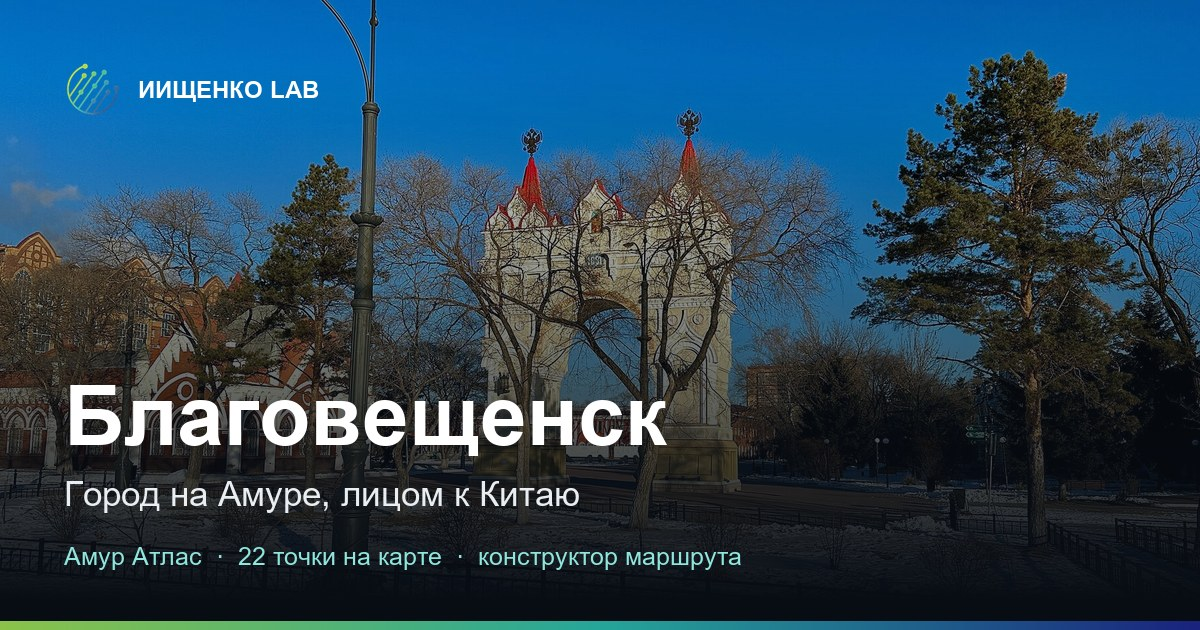
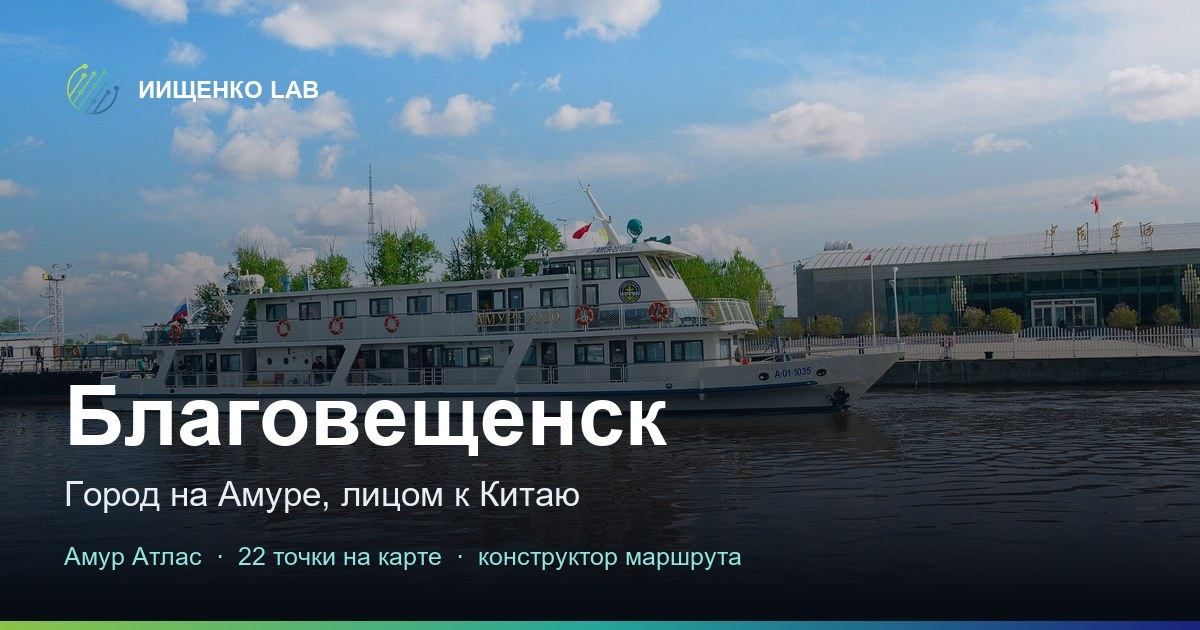
Модуль о канатной дороге, летние фото, подвал и шапка
- секция #ropeway: первая в мире трансграничная канатка, цифры,
  таймлайн стройки, честно про перенос сроков на декабрь 2026
- зимние фото заменены летними, og-превью пересобрано
- подвал: приписка о том, что сайт создан жителем города
- шапка: ссылки не переносятся; крупные фото через ?width=

diff --git a/index.html b/index.html
@@ -21,7 +21,7 @@
 <meta property="og:image" content="https://evgeniy79638134017.github.io/blagoveshchensk-atlas/assets/og-preview.jpg">
 <meta property="og:image:width" content="1200">
 <meta property="og:image:height" content="630">
-<meta property="og:image:alt" content="Триумфальная арка на набережной Амура в Благовещенске">
+<meta property="og:image:alt" content="Теплоход у набережной Амура в Благовещенске летом">
 
 <meta name="twitter:card" content="summary_large_image">
 <meta name="twitter:title" content="Благовещенск · Город на Амуре, лицом к Китаю">
@@ -88,11 +88,14 @@ img{max-width:100%;display:block}
 .logo{width:32px;height:32px;object-fit:contain;flex-shrink:0;display:block}
 .brand{transition:opacity .2s;white-space:nowrap}
 .brand:hover{opacity:.72}
-.nav-links{display:flex;align-items:center;gap:28px}
-.nav-link{font-size:14px;font-weight:500;color:var(--ink-2);transition:color .2s}
+.nav-links{display:flex;align-items:center;gap:24px}
+.nav-link{font-size:14px;font-weight:500;color:var(--ink-2);transition:color .2s;white-space:nowrap}
 .nav-link:hover{color:var(--teal)}
 .nav-cta{font-family:var(--sans);font-size:13px;font-weight:600;padding:10px 18px;border-radius:99px;background:var(--ink);color:#fff;border:none;cursor:pointer;transition:transform .2s,box-shadow .2s}
 .nav-cta:hover{transform:translateY(-1px);box-shadow:var(--sh)}
+/* когда места мало — ссылки не переносятся на вторую строку, а убираются по приоритету */
+@media(max-width:1340px){.nav-links{gap:18px}.nav-link:nth-of-type(8),.nav-link:nth-of-type(9){display:none}}
+@media(max-width:1130px){.nav-links{gap:15px}.nav-link{font-size:13px}.nav-link:nth-of-type(1),.nav-link:nth-of-type(3){display:none}}
 @media(max-width:860px){.nav-links .nav-link{display:none}}
 .prog{position:fixed;top:0;left:0;height:3px;z-index:101;background:linear-gradient(90deg,var(--teal),var(--amber));transform-origin:left;transform:scaleX(0)}
 
@@ -418,6 +421,50 @@ input[type=range]::-moz-range-thumb{width:20px;height:20px;border-radius:50%;bac
 .hh-tip p{font-size:12.5px;color:var(--ink-2);line-height:1.55}
 .hh-note{font-size:11.5px;color:var(--muted);line-height:1.6;margin-top:16px;border-top:1px solid var(--line);padding-top:14px}
 
+/* КАНАТКА */
+.cc{background:linear-gradient(165deg,#15171C 0%,#123b41 100%);color:#fff;position:relative;overflow:hidden}
+.cc::before{content:"";position:absolute;width:520px;height:520px;border-radius:50%;background:radial-gradient(circle,rgba(197,106,160,0.35),transparent 70%);top:-180px;left:-120px;filter:blur(70px);z-index:0}
+.cc .wrap{position:relative;z-index:2}
+.cc .eyebrow{color:#e79fc9}
+.cc .eyebrow::before{background:#e79fc9}
+.cc .section-h{color:#fff}
+.cc .section-h em{color:#e79fc9}
+.cc .section-lead{color:rgba(255,255,255,0.78)}
+.cc-badge{display:inline-flex;align-items:center;gap:9px;font-size:12.5px;font-weight:600;background:rgba(231,159,201,0.16);border:1px solid rgba(231,159,201,0.42);color:#f0c4dd;padding:8px 15px;border-radius:99px;margin-top:1.6rem}
+.cc-badge::before{content:"";width:8px;height:8px;border-radius:50%;background:#e79fc9;animation:pulse 1.8s infinite}
+.cc-grid{display:grid;grid-template-columns:1.25fr 1fr;gap:18px;margin-top:2.2rem;align-items:start}
+@media(max-width:900px){.cc-grid{grid-template-columns:1fr}}
+.cc-photo{position:relative;border-radius:var(--r-lg);overflow:hidden;min-height:340px;background:rgba(255,255,255,0.06);display:flex;flex-direction:column;justify-content:flex-end;padding:20px}
+.cc-photo img{position:absolute;inset:0;width:100%;height:100%;object-fit:cover;z-index:0}
+.cc-photo::after{content:"";position:absolute;inset:0;background:linear-gradient(180deg,rgba(10,16,22,0) 45%,rgba(10,16,22,0.8));z-index:1}
+.cc-photo .cap{position:relative;z-index:2}
+.cc-photo .cap b{display:block;font-family:var(--disp);font-size:15px;font-weight:600}
+.cc-photo .cap span{display:block;font-size:11.5px;color:rgba(255,255,255,0.7);margin-top:3px}
+.cc-nums{display:grid;grid-template-columns:1fr 1fr;gap:12px}
+.cc-num{background:rgba(255,255,255,0.055);border:1px solid rgba(255,255,255,0.13);border-radius:18px;padding:18px}
+.cc-num b{display:block;font-family:var(--disp);font-weight:700;font-size:27px;letter-spacing:-0.02em;line-height:1}
+.cc-num b small{font-size:14px;font-weight:600;color:#e79fc9;margin-left:3px}
+.cc-num span{display:block;font-size:11.5px;color:rgba(255,255,255,0.62);margin-top:7px;line-height:1.45}
+.cc-term{background:rgba(255,255,255,0.055);border:1px solid rgba(255,255,255,0.13);border-radius:18px;padding:20px;margin-top:12px}
+.cc-term b{display:block;font-family:var(--disp);font-size:14.5px;margin-bottom:7px}
+.cc-term p{font-size:13px;color:rgba(255,255,255,0.75);line-height:1.6}
+.cc-tl{display:grid;grid-template-columns:repeat(5,1fr);gap:0;margin-top:18px;position:relative}
+@media(max-width:820px){.cc-tl{grid-template-columns:1fr;gap:14px}}
+.cc-tl-i{position:relative;padding:26px 14px 0 0}
+.cc-tl-i::before{content:"";position:absolute;top:6px;left:0;width:13px;height:13px;border-radius:50%;background:rgba(255,255,255,0.25);border:2px solid #15171C;box-shadow:0 0 0 1px rgba(255,255,255,0.3);z-index:2}
+.cc-tl-i::after{content:"";position:absolute;top:12px;left:13px;right:0;height:1px;background:rgba(255,255,255,0.18)}
+.cc-tl-i:last-child::after{display:none}
+@media(max-width:820px){.cc-tl-i{padding:0 0 0 26px}.cc-tl-i::before{top:4px}.cc-tl-i::after{display:none}}
+.cc-tl-i.now::before{background:#e79fc9;box-shadow:0 0 0 1px #e79fc9,0 0 14px rgba(231,159,201,0.8)}
+.cc-tl-d{font-family:var(--disp);font-size:12.5px;font-weight:700;color:#e79fc9}
+.cc-tl-t{font-size:12.5px;color:rgba(255,255,255,0.75);margin-top:5px;line-height:1.5}
+.cc-foot{display:grid;grid-template-columns:1.1fr .9fr;gap:18px;margin-top:18px;align-items:start}
+@media(max-width:820px){.cc-foot{grid-template-columns:1fr}}
+.cc-render{border-radius:var(--r-lg);overflow:hidden;border:1px solid rgba(255,255,255,0.14);position:relative}
+.cc-render img{width:100%;display:block}
+.cc-render div{position:absolute;left:0;right:0;bottom:0;padding:14px 16px;background:linear-gradient(180deg,rgba(10,16,22,0),rgba(10,16,22,0.85));font-size:11.5px;color:rgba(255,255,255,0.8)}
+.cc-note{font-size:12px;color:rgba(255,255,255,0.58);line-height:1.65;border-left:2px solid rgba(231,159,201,0.5);padding-left:16px}
+
 /* LIGHTBOX */
 .gal{cursor:zoom-in}
 body.lb-open{overflow:hidden}
@@ -473,6 +520,8 @@ footer{background:var(--ink);color:#fff;padding:5rem 0 3rem;margin-top:2rem}
 .foot-bot{display:flex;justify-content:space-between;align-items:center;margin-top:4rem;padding-top:2rem;border-top:1px solid rgba(255,255,255,0.14);flex-wrap:wrap;gap:16px}
 .foot-bot .brand{color:#fff}
 .foot-meta{font-size:12px;color:rgba(255,255,255,0.5)}
+.foot-brand-box{display:flex;flex-direction:column;gap:7px}
+.foot-init{font-size:11.5px;color:rgba(255,255,255,0.45);line-height:1.5;max-width:340px}
 
 .loader{position:fixed;inset:0;background:var(--bg);z-index:9999;display:flex;align-items:center;justify-content:center;flex-direction:column;gap:14px;transition:opacity .5s,visibility .5s}
 .loader.gone{opacity:0;visibility:hidden;pointer-events:none}
@@ -494,6 +543,7 @@ footer{background:var(--ink);color:#fff;padding:5rem 0 3rem;margin-top:2rem}
     <a class="nav-link" href="#now">События</a>
     <a class="nav-link" href="#go">Как доехать</a>
     <a class="nav-link" href="#heihe">Хэйхэ</a>
+    <a class="nav-link" href="#ropeway">Канатка</a>
     <a class="nav-link" href="#planner">Маршрут</a>
     <a class="nav-link" href="#history">История</a>
     <a class="nav-link" href="#facts">Любопытное</a>
@@ -521,7 +571,7 @@ footer{background:var(--ink);color:#fff;padding:5rem 0 3rem;margin-top:2rem}
       </div>
     </div>
     <div class="hero-visual fade">
-      <img src="https://commons.wikimedia.org/wiki/Special:FilePath/Triumphal_arch_in_Blagoveshchensk_2023-11_1701250430.jpg" alt="Триумфальная арка на набережной Амура, Благовещенск" loading="eager" onerror="this.style.display='none'">
+      <img src="https://commons.wikimedia.org/wiki/Special:FilePath/The_Triumphal_Arch,_Blagoveshchensk,_Russia_(8760409508).jpg" alt="Триумфальная арка на набережной Амура, Благовещенск" loading="eager" onerror="this.style.display='none'">
       <div class="flag">RU ↔ CN<span>Амур · граница</span></div>
       <div class="badge"><span class="dot"></span>Триумфальная арка на Амуре</div>
     </div>
@@ -543,7 +593,7 @@ footer{background:var(--ink);color:#fff;padding:5rem 0 3rem;margin-top:2rem}
     <h2 class="section-h fade">Четыре разных Благовещенска<br>в одной <em>поездке</em></h2>
     <p class="section-lead fade">За несколько дней — пройти по набережной лицом к китайскому мегаполису, застать купеческий «Амурский Чикаго», потрогать кости динозавров и увидеть, откуда стартуют ракеты.</p>
     <div class="bento">
-      <div class="cell big photo fade" style="background-image:url('https://commons.wikimedia.org/wiki/Special:FilePath/Views_of_Blagoveshchensk_(November_2023)_-_1.jpg')">
+      <div class="cell big photo fade" style="background-image:url('https://commons.wikimedia.org/wiki/Special:FilePath/Blagoveshchensk,_Russia_Heihe,_China_([phone redacted]).jpg?width=1100')">
         <div class="in"><h3>Амур и граница</h3><p>Набережная, Триумфальная арка, памятник Муравьёву-Амурскому, первый автомост Россия–Китай и первая в мире трансграничная канатка в Хэйхэ.</p></div>
       </div>
       <div class="cell accent fade"><div class="kpi">750<small> м</small></div><div class="lbl">воды до Китая — города стоят «глаза в глаза»</div></div>
@@ -790,7 +840,7 @@ footer{background:var(--ink);color:#fff;padding:5rem 0 3rem;margin-top:2rem}
 
     <div class="hh-photos">
       <a class="hh-photo fade" href="https://commons.wikimedia.org/wiki/File:Blick_auf_die_Stadt_Heihe_03.01.2026.jpg" target="_blank" rel="noopener">
-        <img src="https://commons.wikimedia.org/wiki/Special:FilePath/Blick_auf_die_Stadt_Heihe_03.01.2026.jpg?width=1000" alt="Вид на город Хэйхэ с российского берега Амура" loading="lazy" onerror="this.style.display='none'">
+        <img src="https://commons.wikimedia.org/wiki/Special:FilePath/Heihe,_China_(8809096250).jpg?width=1000" alt="Вид на город Хэйхэ с российского берега Амура" loading="lazy" onerror="this.style.display='none'">
         <div>Хэйхэ с нашего берега</div><small>Тот самый вид с набережной Благовещенска</small>
       </a>
       <a class="hh-photo fade" href="https://commons.wikimedia.org/wiki/File:201907_Crossing_the_Heilong_(Amur)_from_Heihe_to_Blagoveshchensk_04.jpg" target="_blank" rel="noopener">
@@ -810,10 +860,52 @@ footer{background:var(--ink);color:#fff;padding:5rem 0 3rem;margin-top:2rem}
   </div>
 </section>
 
+<!-- КАНАТКА -->
+<section class="section cc" id="ropeway">
+  <div class="wrap">
+    <span class="eyebrow fade">06 — скоро</span>
+    <h2 class="section-h fade">Первая в мире канатка<br><em>между двумя странами</em></h2>
+    <p class="section-lead fade">Через Амур тянут канатную дорогу из России в Китай — такого нет больше нигде. Вместо парома и автобуса с формальностями — кабина и несколько минут над пограничной рекой. Стройку начали в 2019 году, сейчас она на финишной прямой.</p>
+    <div class="cc-badge fade">Готовность около 90% · трос через Амур протянут 2 июля 2026</div>
+
+    <div class="cc-grid">
+      <a class="cc-photo fade" href="https://commons.wikimedia.org/wiki/File:Первая_в_мире_трансграничная_канатная_дорога_(Благовещенск_-_Хэйхэ).jpg" target="_blank" rel="noopener">
+        <img src="https://commons.wikimedia.org/wiki/Special:FilePath/Первая_в_мире_трансграничная_канатная_дорога_(Благовещенск_-_Хэйхэ).jpg?width=900" alt="Проект терминала канатной дороги Благовещенск — Хэйхэ" loading="lazy" onerror="this.style.display='none'">
+        <div class="cap"><b>Терминал на «Золотой миле»</b><span>Проектная визуализация бюро UNStudio — победителя международного конкурса</span></div>
+      </a>
+      <div>
+        <div class="cc-nums">
+          <div class="cc-num fade"><b>976<small> м</small></b><span>длина трассы над Амуром и государственной границей</span></div>
+          <div class="cc-num fade"><b>~6<small> мин</small></b><span>в пути между двумя странами</span></div>
+          <div class="cc-num fade"><b>110<small> чел</small></b><span>вместимость каждой из двух кабин</span></div>
+          <div class="cc-num fade"><b>1788<small> /час</small></b><span>пропускная способность в одну сторону</span></div>
+        </div>
+        <div class="cc-term fade">
+          <b>Что будет в терминале</b>
+          <p>Четырёхэтажное здание на набережной: пограничный и таможенный контроль, магазины duty free, торговая галерея и ресторан с видом на Амур. Работать планируют ежедневно с 07:00 до 23:00. Стоимость проекта — около 10 млрд рублей.</p>
+        </div>
+      </div>
+    </div>
+
+    <div class="cc-tl">
+      <div class="cc-tl-i fade"><div class="cc-tl-d">июль 2019</div><div class="cc-tl-t">Начало строительства на российском берегу</div></div>
+      <div class="cc-tl-i fade"><div class="cc-tl-d">2024</div><div class="cc-tl-t">Смонтирована опора высотой 64 метра, поднят корпус терминала</div></div>
+      <div class="cc-tl-i fade"><div class="cc-tl-d">январь 2026</div><div class="cc-tl-t">Китайская часть готова на 97%, идёт монтаж оборудования</div></div>
+      <div class="cc-tl-i now fade"><div class="cc-tl-d">2 июля 2026</div><div class="cc-tl-t">Тросы протянуты через Амур — мы сейчас здесь</div></div>
+      <div class="cc-tl-i fade"><div class="cc-tl-d">декабрь 2026</div><div class="cc-tl-t">Пусконаладка и готовность к эксплуатации</div></div>
+    </div>
+
+    <div class="cc-foot">
+      <div class="cc-note fade">О сроках честно: их уже переносили. Сначала запуск обещали на весну 2026-го, потом говорили о тестовом пуске в июле. По самым свежим данным — Хэйлунцзянское телевидение, 5 июля 2026 года — пусконаладочные работы пройдут в конце года, а к эксплуатации объект будет готов в декабре. Так что если планируете проехать над Амуром — рассчитывайте на зиму, а не на осень.<br><br>Цену билета официально не объявляли. В публикациях называют ориентир около 3 000 ₽ за поездку туда и обратно, но это оценка, а не тариф.</div>
+      <div class="cc-note fade" style="border-left-color:rgba(255,255,255,0.25)">Пока канатка не открылась, в Китай ходят теплоходы и автобусы по мосту — как добраться и во что обойдётся, посчитано в блоке <a href="#heihe" style="color:#e79fc9;text-decoration:underline;text-underline-offset:3px">«Две страны за один день»</a> выше.</div>
+    </div>
+  </div>
+</section>
+
 <!-- PLANNER -->
 <section class="section" id="planner">
   <div class="wrap">
-    <span class="eyebrow fade">06 — конструктор маршрута</span>
+    <span class="eyebrow fade">07 — конструктор маршрута</span>
     <h2 class="section-h fade">Соберём <em>персональный</em> маршрут</h2>
     <p class="section-lead fade">Алгоритм учитывает состав группы, сезон, интересы и бюджет — раскладывает активности по дням и прозрачно считает стоимость.</p>
     <div class="pl-grid">
@@ -879,7 +971,7 @@ footer{background:var(--ink);color:#fff;padding:5rem 0 3rem;margin-top:2rem}
 <!-- HISTORY -->
 <section class="section history" id="history">
   <div class="wrap">
-    <span class="eyebrow fade">07 — история</span>
+    <span class="eyebrow fade">08 — история</span>
     <h2 class="section-h fade">Четыре эпохи <em>на берегу Амура</em></h2>
     <p class="section-lead fade">Албазинский острог XVII века, рождение города при Муравьёве-Амурском, купеческий «Амурский Чикаго» и приграничный город XX–XXI веков — от погранзоны до моста и канатки в Китай.</p>
     <div class="eras" id="eras"></div>
@@ -889,7 +981,7 @@ footer{background:var(--ink);color:#fff;padding:5rem 0 3rem;margin-top:2rem}
 <!-- CUISINE -->
 <section class="section" id="cuisine">
   <div class="wrap">
-    <span class="eyebrow fade">08 — гастрономия</span>
+    <span class="eyebrow fade">09 — гастрономия</span>
     <h2 class="section-h fade">Кухня <em>двух стран</em> на одном столе</h2>
     <p class="section-lead fade">Дунбэйская кухня соседнего Хэйхэ давно стала городской повседневностью, а рядом — амурская речная рыба, соя «соевой столицы» России, таёжные дикоросы и наследие казачества.</p>
     <div class="dishes" id="dishes"></div>
@@ -899,7 +991,7 @@ footer{background:var(--ink);color:#fff;padding:5rem 0 3rem;margin-top:2rem}
 <!-- FACTS -->
 <section class="section facts" id="facts">
   <div class="wrap">
-    <span class="eyebrow fade">09 — любопытное</span>
+    <span class="eyebrow fade">10 — любопытное</span>
     <h2 class="section-h fade">Неожиданный <em>Благовещенск</em></h2>
     <p class="section-lead fade">Факты, курьёзы и городские байки, которые превращают поездку в историю — из впечатлений тех, кто уже съездил на границу двух миров.</p>
     <div class="facts-grid">
@@ -922,47 +1014,47 @@ footer{background:var(--ink);color:#fff;padding:5rem 0 3rem;margin-top:2rem}
 <!-- GALLERY -->
 <section class="section" id="gallery" style="background:var(--surf);border-top:1px solid var(--line)">
   <div class="wrap">
-    <span class="eyebrow fade">10 — галерея</span>
+    <span class="eyebrow fade">11 — галерея</span>
     <h2 class="section-h fade">Благовещенск <em>в кадре</em></h2>
     <p class="section-lead fade">Набережная лицом к Китаю, Триумфальная арка, мост через Амур, космос и динозавры.</p>
     <div class="gal-grid fade">
       <a class="gal g-a" href="https://commons.wikimedia.org/wiki/Category:Blagoveshchensk" target="_blank" rel="noopener">
-        <img src="https://commons.wikimedia.org/wiki/Special:FilePath/Blagoveshchensk,_Russia_---_Heihe,_China_(8789415981).jpg" alt="Благовещенск и китайский Хэйхэ через Амур" loading="lazy" onerror="this.style.display='none'">
+        <img src="https://commons.wikimedia.org/wiki/Special:FilePath/Blagoveshchensk,_Russia_---_Heihe,_China_(8789415981).jpg?width=1200" alt="Теплоход у набережной Амура в Благовещенске" loading="lazy" onerror="this.style.display='none'">
         <div class="gal-fb"><svg viewBox="0 0 24 24" fill="none" stroke-width="0.8"><path d="M4 21V6a8 8 0 0116 0v15M4 21h16M9 21v-7a3 3 0 016 0v7"/></svg></div>
-        <div class="gal-body"><span class="gal-cap">01 · Через Амур</span><div class="gal-h">Благовещенск и Хэйхэ — глаза в глаза</div></div>
+        <div class="gal-body"><span class="gal-cap">01 · Речной вокзал</span><div class="gal-h">Теплоходы уходят в Китай отсюда</div></div>
       </a>
       <a class="gal g-b" href="https://commons.wikimedia.org/wiki/Category:Blagoveshchensk" target="_blank" rel="noopener">
-        <img src="https://commons.wikimedia.org/wiki/Special:FilePath/River_Amur-Heihe.jpg" alt="Набережная Амура" loading="lazy" onerror="this.style.display='none'">
+        <img src="https://commons.wikimedia.org/wiki/Special:FilePath/River_Amur-Heihe.jpg?width=900" alt="Набережная Амура" loading="lazy" onerror="this.style.display='none'">
         <div class="gal-fb"><svg viewBox="0 0 24 24" fill="none" stroke-width="0.8"><path d="M3 18c3 0 4-2 7-2s4 2 7 2M3 14c3 0 4-2 7-2s4 2 7 2M3 22h18"/></svg></div>
         <div class="gal-body"><span class="gal-cap">02 · Набережная Амура</span><div class="gal-h">Хэйхэ на том берегу</div></div>
       </a>
       <a class="gal" href="https://commons.wikimedia.org/wiki/Category:Annunciation_Cathedral_(Blagoveshchensk)" target="_blank" rel="noopener">
-        <img src="https://commons.wikimedia.org/wiki/Special:FilePath/201907_Cathedral_of_the_Annunciation_of_the_Blessed_Virgin_Mary,_Blagoveshchensk_01.jpg" alt="Кафедральный собор Благовещения в Благовещенске" loading="lazy" onerror="this.style.display='none'">
+        <img src="https://commons.wikimedia.org/wiki/Special:FilePath/201907_Cathedral_of_the_Annunciation_of_the_Blessed_Virgin_Mary,_Blagoveshchensk_01.jpg?width=900" alt="Кафедральный собор Благовещения в Благовещенске" loading="lazy" onerror="this.style.display='none'">
         <div class="gal-fb"><svg viewBox="0 0 24 24" fill="none" stroke-width="0.8"><path d="M12 2l2 4h-4l2-4zM7 10l5-3 5 3v11H7zM10 21v-5h4v5"/></svg></div>
         <div class="gal-body"><span class="gal-cap">03 · Собор Благовещения</span><div class="gal-h">Семь золочёных куполов</div></div>
       </a>
       <a class="gal" href="https://commons.wikimedia.org/wiki/Category:Blagoveshensk-Heihe_bridge" target="_blank" rel="noopener">
-        <img src="https://commons.wikimedia.org/wiki/Special:FilePath/Bridge_Blagoveshchensk_-_Heihe_in_winter.jpg" alt="Мост через Амур" loading="lazy" onerror="this.style.display='none'">
+        <img src="https://commons.wikimedia.org/wiki/Special:FilePath/Мост_в_Китай.jpg?width=900" alt="Мост через Амур" loading="lazy" onerror="this.style.display='none'">
         <div class="gal-fb"><svg viewBox="0 0 24 24" fill="none" stroke-width="0.8"><path d="M2 16h20M4 16v-3M20 16v-3M8 16c0-3 8-3 8 0"/></svg></div>
-        <div class="gal-body"><span class="gal-cap">04 · Мост через Амур</span><div class="gal-h">Первый автомост в Китай</div></div>
+        <div class="gal-body"><span class="gal-cap">04 · Мост через Амур</span><div class="gal-h">Первый автомост в Китай, стройка 2019-го</div></div>
       </a>
       <a class="gal" href="https://commons.wikimedia.org/wiki/Category:Blagoveshchensk" target="_blank" rel="noopener">
-        <img src="https://commons.wikimedia.org/wiki/Special:FilePath/Blagoveshchensk_Lenin_square_2024-08_75.jpg" alt="Центр города" loading="lazy" onerror="this.style.display='none'">
+        <img src="https://commons.wikimedia.org/wiki/Special:FilePath/Blagoveshchensk_Lenin_square_2024-08_75.jpg?width=900" alt="Центр города" loading="lazy" onerror="this.style.display='none'">
         <div class="gal-fb"><svg viewBox="0 0 24 24" fill="none" stroke-width="0.8"><path d="M3 21h18M5 21V8l7-5 7 5v13M9 21v-7h6v7"/></svg></div>
         <div class="gal-body"><span class="gal-cap">05 · Центр города</span><div class="gal-h">Купеческий Благовещенск</div></div>
       </a>
       <a class="gal" href="https://commons.wikimedia.org/wiki/File:Nelumbo_nucifera_004.JPG" target="_blank" rel="noopener">
-        <img src="https://commons.wikimedia.org/wiki/Special:FilePath/Nelumbo_nucifera_004.JPG" alt="Лотосы Комарова" loading="lazy" onerror="this.style.display='none'">
+        <img src="https://commons.wikimedia.org/wiki/Special:FilePath/Nelumbo_nucifera_004.JPG?width=800" alt="Лотосы Комарова" loading="lazy" onerror="this.style.display='none'">
         <div class="gal-fb"><svg viewBox="0 0 24 24" fill="none" stroke-width="0.8"><path d="M12 20c-4-1-7-4-7-8 3 0 5 1 7 4 2-3 4-4 7-4 0 4-3 7-7 8zM12 20v-4"/></svg></div>
         <div class="gal-body"><span class="gal-cap">06 · Лотосы Комарова</span><div class="gal-h">Цветут в июле у Ивановки</div></div>
       </a>
       <a class="gal g-b" href="https://commons.wikimedia.org/wiki/Category:Vostochny_Cosmodrome" target="_blank" rel="noopener">
-        <img src="https://commons.wikimedia.org/wiki/Special:FilePath/Первый_пуск_с_космодрома_Восточный.jpg" alt="Первый пуск с космодрома Восточный" loading="lazy" onerror="this.style.display='none'">
+        <img src="https://commons.wikimedia.org/wiki/Special:FilePath/Первый_пуск_с_космодрома_Восточный.jpg?width=1000" alt="Первый пуск с космодрома Восточный" loading="lazy" onerror="this.style.display='none'">
         <div class="gal-fb"><svg viewBox="0 0 24 24" fill="none" stroke-width="0.8"><path d="M12 2c3 3 4 7 4 10l-4 4-4-4c0-3 1-7 4-10zM8 16l-3 3 3-1M16 16l3 3-3-1M10 21h4"/></svg></div>
         <div class="gal-body"><span class="gal-cap">07 · Космодром Восточный</span><div class="gal-h">Первый пуск «Союза-2» · 180 км от города</div></div>
       </a>
       <a class="gal" href="https://commons.wikimedia.org/wiki/Category:Blagoveshchensk" target="_blank" rel="noopener">
-        <img src="https://commons.wikimedia.org/wiki/Special:FilePath/Памятник_Н.Н._Муравьеву-Амурскому.JPG" alt="Памятник Муравьёву-Амурскому в Благовещенске" loading="lazy" onerror="this.style.display='none'">
+        <img src="https://commons.wikimedia.org/wiki/Special:FilePath/Памятник_Н.Н._Муравьеву-Амурскому.JPG?width=800" alt="Памятник Муравьёву-Амурскому в Благовещенске" loading="lazy" onerror="this.style.display='none'">
         <div class="gal-fb"><svg viewBox="0 0 24 24" fill="none" stroke-width="0.8"><path d="M12 4a2 2 0 100 4 2 2 0 000-4zM9 22v-7l-2-2 3-3h4l3 3-2 2v7"/></svg></div>
         <div class="gal-body"><span class="gal-cap">08 · Муравьёв-Амурский</span><div class="gal-h">Основатель города на набережной</div></div>
       </a>
@@ -975,7 +1067,10 @@ footer{background:var(--ink);color:#fff;padding:5rem 0 3rem;margin-top:2rem}
     <h2 class="foot-h">Готовы <em>увидеть</em> Благовещенск?</h2>
     <div class="foot-cta"><button class="btn btn-primary" onclick="document.getElementById('planner').scrollIntoView()">К конструктору маршрута →</button></div>
     <div class="foot-bot">
-      <a class="brand" href="https://t.me/Evgen_wormhole" target="_blank" rel="noopener" title="Telegram-канал ИИщенко LAB"><img class="logo" src="assets/logo-mark.png" alt="ИИщенко LAB" width="32" height="32">ИИщенко LAB</a>
+      <div class="foot-brand-box">
+        <a class="brand" href="https://t.me/Evgen_wormhole" target="_blank" rel="noopener" title="Telegram-канал ИИщенко LAB"><img class="logo" src="assets/logo-mark.png" alt="ИИщенко LAB" width="32" height="32">ИИщенко LAB</a>
+        <div class="foot-init">Сайт создан жителем Благовещенска по собственной инициативе</div>
+      </div>
       <div class="foot-meta">v2.0 · Амур Атлас · Благовещенск</div>
     </div>
   </div>
@@ -1008,15 +1103,15 @@ function getCss(v){return getComputedStyle(document.documentElement).getProperty
 
 const POINTS = [
   {id:1,name:"Набережная Амура",lat:50.25606,lng:127.52458,cat:"sea",desc:"Главная прогулочная артерия города вдоль Амура. С неё виден китайский Хэйхэ на другом берегу — ротонда, бювет, фонтаны, скульптуры. Центр городской жизни."},
-  {id:2,name:"Триумфальная арка",lat:50.25686,lng:127.52165,cat:"his",desc:"20-метровая арка с двуглавыми орлами на набережной. Восстановлена в 2005 году по фото оригинала 1891 года — к визиту цесаревича Николая. Визитная карточка Благовещенска.",img:"https://commons.wikimedia.org/wiki/Special:FilePath/Triumphal_arch_in_Blagoveshchensk_2023-11_1701250430.jpg"},
-  {id:3,name:"Кафедральный собор Благовещения",lat:50.26162,lng:127.51392,cat:"his",desc:"Главный храм города, семь золочёных куполов, освящён в 2003 году. Хранит чтимую Албазинскую икону Божией Матери «Слово плоть бысть».",img:"https://commons.wikimedia.org/wiki/Special:FilePath/201907_Cathedral_of_the_Annunciation_of_the_Blessed_Virgin_Mary,_Blagoveshchensk_01.jpg"},
+  {id:2,name:"Триумфальная арка",lat:50.25686,lng:127.52165,cat:"his",desc:"20-метровая арка с двуглавыми орлами на набережной. Восстановлена в 2005 году по фото оригинала 1891 года — к визиту цесаревича Николая. Визитная карточка Благовещенска.",img:"https://commons.wikimedia.org/wiki/Special:FilePath/The_Triumphal_Arch,_Blagoveshchensk,_Russia_(8760409508).jpg"},
+  {id:3,name:"Кафедральный собор Благовещения",lat:50.26162,lng:127.51392,cat:"his",desc:"Главный храм города, семь золочёных куполов, освящён в 2003 году. Хранит чтимую Албазинскую икону Божией Матери «Слово плоть бысть».",img:"https://commons.wikimedia.org/wiki/Special:FilePath/201907_Cathedral_of_the_Annunciation_of_the_Blessed_Virgin_Mary,_Blagoveshchensk_01.jpg?width=900"},
   {id:4,name:"Краеведческий музей им. Новикова-Даурского",lat:50.25913,lng:127.52467,cat:"city",desc:"Один из старейших на Дальнем Востоке (осн. 1891). ~166 тыс. единиц хранения: от палеонтологии Приамурья до казачества и приграничья."},
   {id:5,name:"Канатная дорога Благовещенск–Хэйхэ",lat:50.26,lng:127.525,cat:"city",desc:"Первая в мире трансграничная канатка через госграницу. Натяжка каната через Амур завершена в июле 2026, запуск намечен на конец года. 2 кабины по 110 чел., 6–8 минут в пути."},
-  {id:6,name:"Трансграничный мост через Амур",lat:50.2011,lng:127.60046,cat:"his",desc:"Первый автомост Россия–Китай (Кани-Курган, ~13 км от центра), открыт для грузов в 2022 году. С 2026-го пущены пассажирские автобусы Благовещенск–Хэйхэ.",img:"https://commons.wikimedia.org/wiki/Special:FilePath/Bridge_Blagoveshchensk_-_Heihe_in_winter.jpg"},
-  {id:7,name:"Площадь Ленина",lat:50.25732,lng:127.53458,cat:"city",desc:"Центральная площадь города с администрацией области. Место главных праздников, ярмарок и новогоднего городка.",img:"https://commons.wikimedia.org/wiki/Special:FilePath/Blagoveshchensk_Lenin_square_2024-08_75.jpg"},
+  {id:6,name:"Трансграничный мост через Амур",lat:50.2011,lng:127.60046,cat:"his",desc:"Первый автомост Россия–Китай (Кани-Курган, ~13 км от центра), открыт для грузов в 2022 году. С 2026-го пущены пассажирские автобусы Благовещенск–Хэйхэ.",img:"https://commons.wikimedia.org/wiki/Special:FilePath/Мост_в_Китай.jpg?width=900"},
+  {id:7,name:"Площадь Ленина",lat:50.25732,lng:127.53458,cat:"city",desc:"Центральная площадь города с администрацией области. Место главных праздников, ярмарок и новогоднего городка.",img:"https://commons.wikimedia.org/wiki/Special:FilePath/Blagoveshchensk_Lenin_square_2024-08_75.jpg?width=900"},
   {id:8,name:"Общественно-культурный центр (ОКЦ)",lat:50.25558,lng:127.54495,cat:"city",desc:"Крупнейшая концертно-выставочная площадка города. «Дом» многих событий кинофестиваля «Амурская осень»."},
   {id:9,name:"Первомайский парк",lat:50.24766,lng:127.56965,cat:"city",desc:"Старейший парк города: тенистые аллеи, аттракционы, детские площадки. Приятно погулять."},
-  {id:10,name:"Памятник Муравьёву-Амурскому",lat:50.25603,lng:127.52677,cat:"his",desc:"Бронзовая фигура основателя города и «собирателя» Приамурья на набережной. Смотрит на Амур и Китай.",img:"https://commons.wikimedia.org/wiki/Special:FilePath/Памятник_Н.Н._Муравьеву-Амурскому.JPG"},
+  {id:10,name:"Памятник Муравьёву-Амурскому",lat:50.25603,lng:127.52677,cat:"his",desc:"Бронзовая фигура основателя города и «собирателя» Приамурья на набережной. Смотрит на Амур и Китай.",img:"https://commons.wikimedia.org/wiki/Special:FilePath/Памятник_Н.Н._Муравьеву-Амурскому.JPG?width=800"},
   {id:11,name:"Амурский областной театр драмы",lat:50.25939,lng:127.51409,cat:"city",desc:"Один из старейших театров Дальнего Востока (осн. 1883). Главная сцена театральной программы «Амурской осени»."},
   {id:12,name:"Пожарная каланча",lat:50.26089,lng:127.55525,cat:"his",desc:"Кирпичная башня 1909–1914 годов в духе замковой архитектуры. Доминанта исторической Амурской улицы, символ купеческого Благовещенска."},
   {id:13,name:"Парк Дружбы",lat:50.29438,lng:127.52753,cat:"city",desc:"Зелёная зона в китайском стиле с искусственным водопадом и скейт-парком — знак приграничного соседства."},
@@ -1025,7 +1120,7 @@ const POINTS = [
   {id:16,name:"Турбаза и санатории Мухинка",lat:50.54197,lng:127.6534,cat:"spa",desc:"Популярная зона отдыха на берегу Зеи, ~35 км севернее города. Сосновый бор, санатории, базы. Летний отдых горожан."},
   {id:17,name:"Космодром Восточный / Циолковский",lat:51.88455,lng:128.33478,cat:"city",desc:"Новая космическая эпоха Приамурья, ~180 км от Благовещенска (3–4 ч). Экскурсии по предварительной заявке, смотровые площадки при пусках."},
   {id:18,name:"Албазинский острог",lat:53.3804,lng:124.07863,cat:"his",desc:"Первое русское поселение на Амуре (1651) и место героической обороны 1685–1686 годов. Ныне музейно-культурный центр и реконструкция острога (Сковородинский р-н)."},
-  {id:19,name:"Озеро лотосов у Ивановки",lat:50.36284,lng:128.00269,cat:"nat",desc:"Заросли краснокнижного лотоса Комарова, цветут в июле–августе. ~40 км от города, популярная летняя фотолокация.",img:"https://commons.wikimedia.org/wiki/Special:FilePath/Nelumbo_nucifera_004.JPG"},
+  {id:19,name:"Озеро лотосов у Ивановки",lat:50.36284,lng:128.00269,cat:"nat",desc:"Заросли краснокнижного лотоса Комарова, цветут в июле–августе. ~40 км от города, популярная летняя фотолокация.",img:"https://commons.wikimedia.org/wiki/Special:FilePath/Nelumbo_nucifera_004.JPG?width=800"},
   {id:20,name:"Памятник псу Дружку",lat:50.25580,lng:127.52520,cat:"his",desc:"Бронзовый пёс на набережной — трогательный символ наводнения 2013 года: во время большой воды он несколько дней ждал хозяев на крыльце затопленного дома. Теперь, по словам горожан, «охраняет весь город»."},
   {id:21,name:"Музей истории Амурского казачества",lat:52.78602,lng:125.99425,cat:"his",desc:"Экспозиция о роли казачества в освоении Приамурья и охране границы — в селе Черняево (Магдагачинский р-н, ~250 км от города). Быт, оружие, форма переселенцев."},
   {id:22,name:"Кундурское местонахождение динозавров",lat:49.07,lng:130.77,cat:"nat",desc:"Второе знаменитое «кладбище динозавров» области (Архаринский р-н, ~350 км). Здесь найден олоротитан — «дальневосточный утконосый ящер»."}